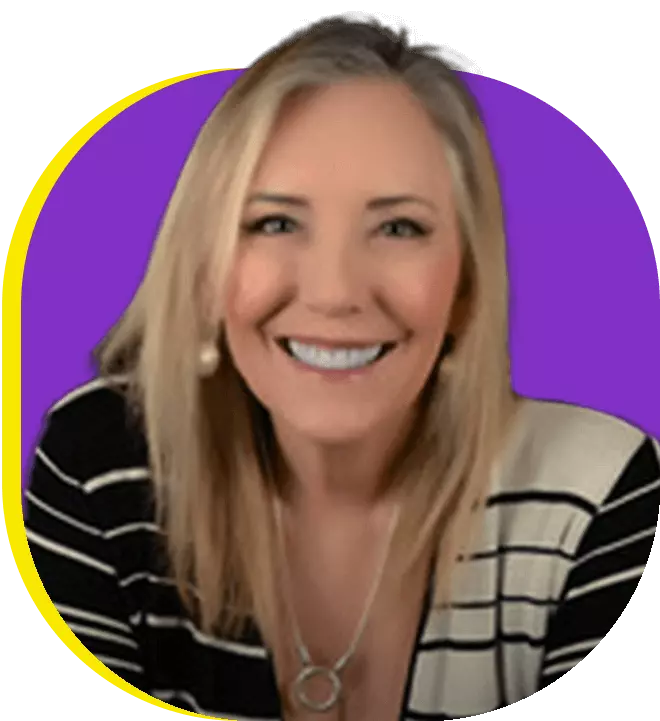
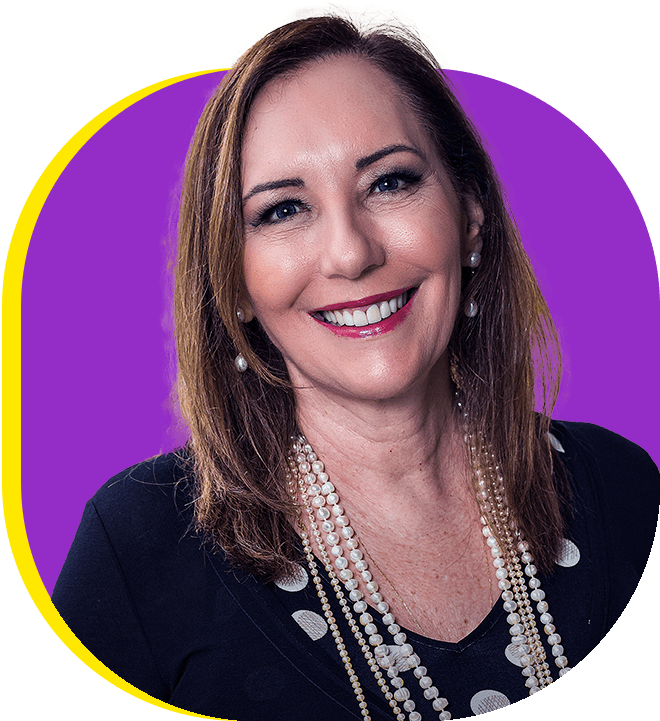
feat: :sparkles: novos palestrantes e ajustes nas fotos

diff --git a/src/components/atoms/Line/Line.module.scss b/src/components/atoms/Line/Line.module.scss
@@ -49,6 +49,13 @@
   text-transform: uppercase;
 }
 
+.speach{
+  background-color: darken($quaternary-indigo-colos, 5%);
+  ~ .tema {
+    background: $secondary-colors;
+  }
+}
+
 .speach.painel1,
 .painel1 {
   background-color: darken($primary-colors, 5%);
@@ -58,9 +65,9 @@
 }
 .speach.painel2,
 .painel2 {
-  background-color: darken($secondary-colors, 5%);
+  background-color: darken($quaternary-indigo-colos, 5%);
   ~ .tema {
-    background: $secondary-colors;
+    background: $quaternary-indigo-colos;
   }
 }
 .speach.painel3,

diff --git a/src/components/organisms/Marks/Marks.module.scss b/src/components/organisms/Marks/Marks.module.scss
@@ -135,7 +135,7 @@
       margin: 0 auto;
       display: block;
       object-fit: contain;
-      width: 200px;
+      width: 170px;
     }
     legend {
       display: block;
